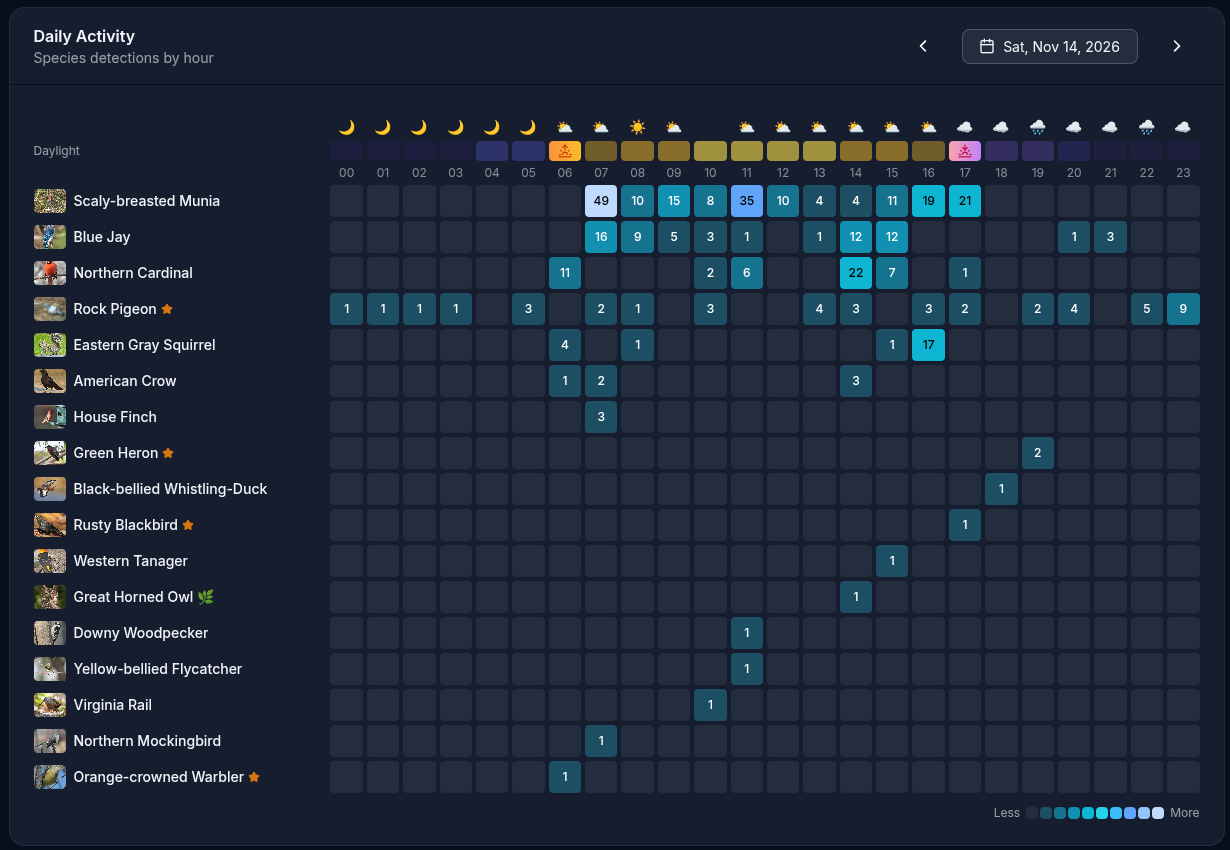
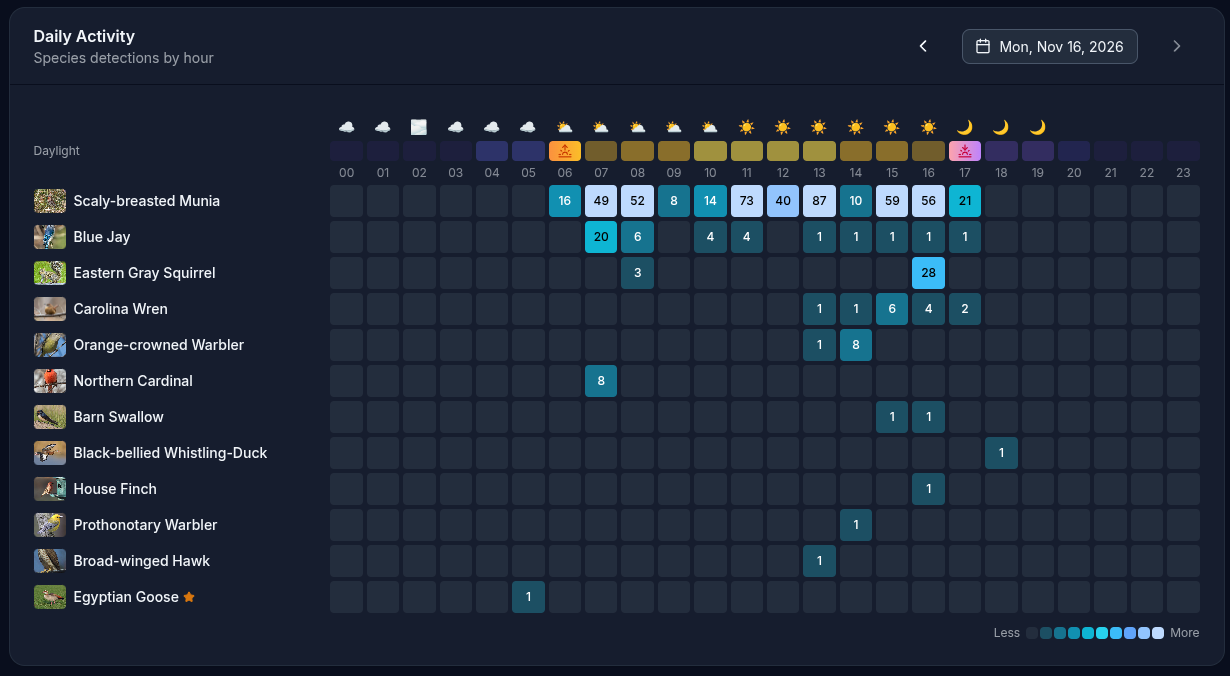
Main page: BirdNET-Go chart without the false Rock Pigeon

diff --git a/README.md b/README.md
@@ -19,7 +19,7 @@ Made for **bird monitoring with [BirdNET-Go](https://github.com/tphakala/birdnet
 
 One day of BirdNET-Go detections by hour (November, US Central), from a UGREEN adapter and an AOM5024 microphone (signal-to-noise ratio, SNR: 80 dB) through the extender:
 
-![BirdNET-Go daily activity chart: 16 bird species (and a squirrel) in one day, Scaly-breasted Munia up to 49 detections an hour](docs/images/birdnet-go-day.png)
+![BirdNET-Go daily activity chart: 11 bird species (and a squirrel) in one day, Scaly-breasted Munia up to 87 detections an hour](docs/images/birdnet-go-day.png)
 
 The species are BirdNET's own identifications, not checked by ear.
 
